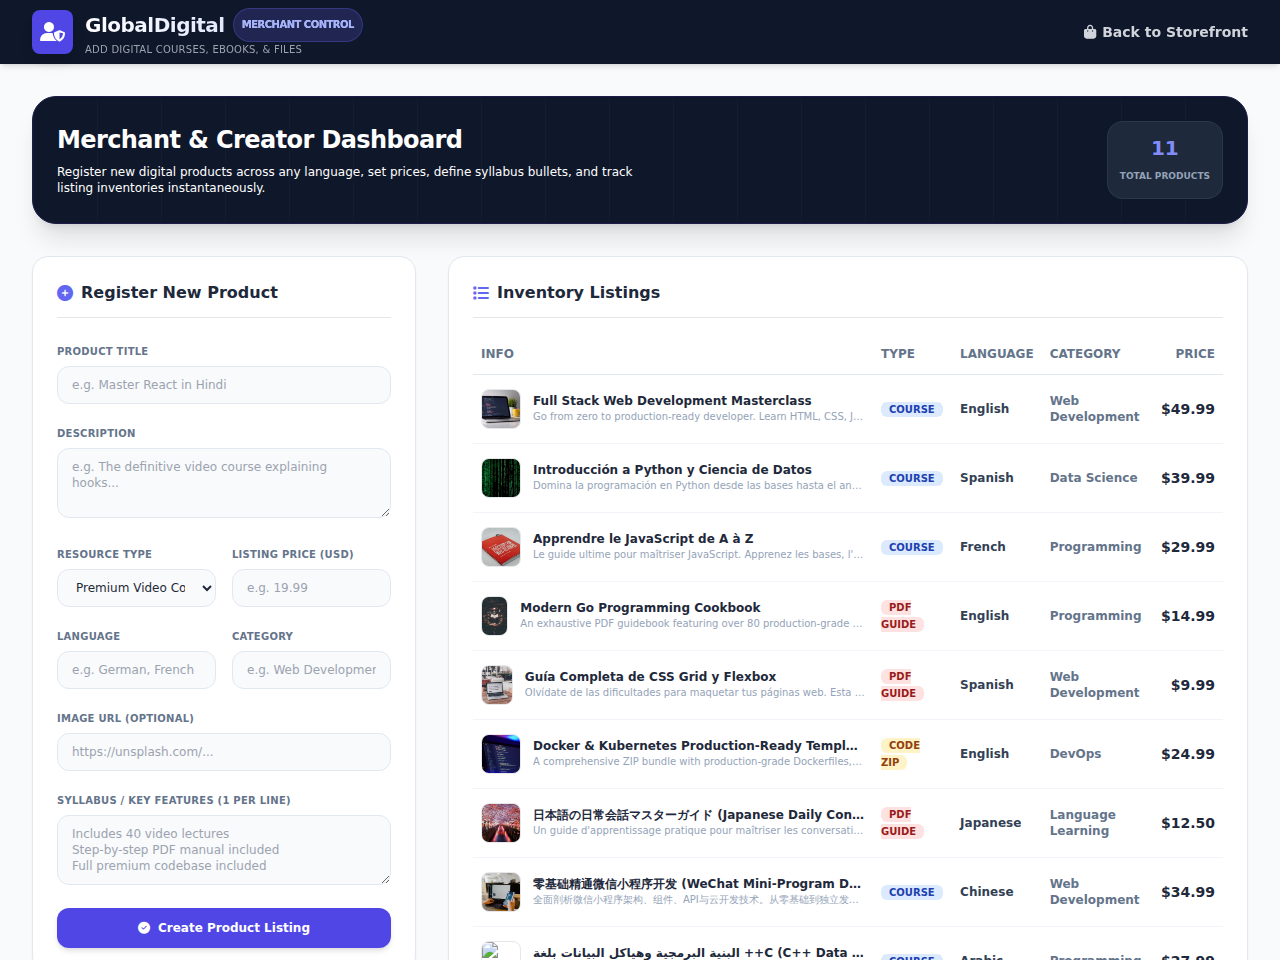
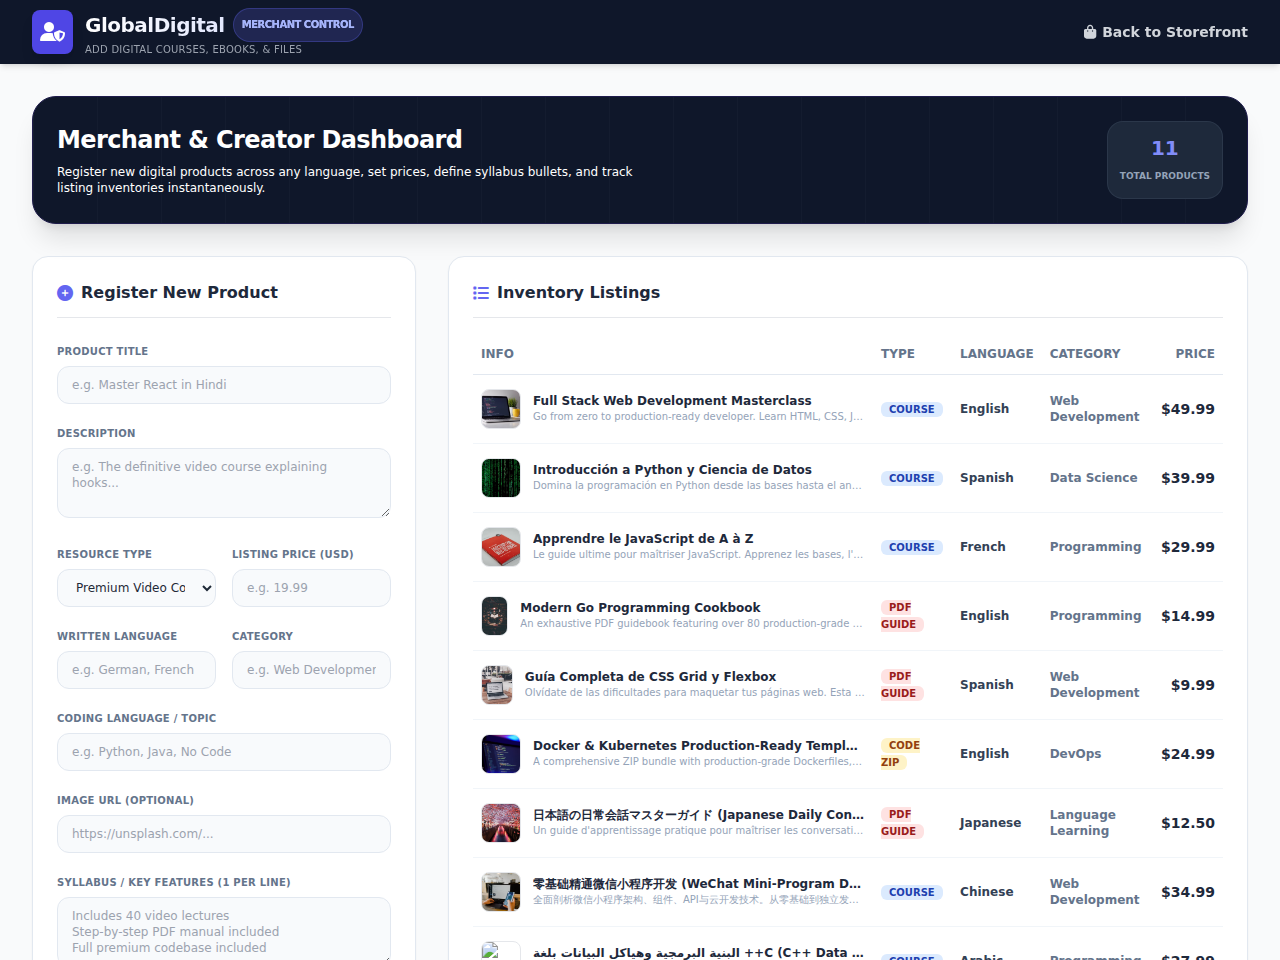
feat: implement multi-lingual coding-language digital e-commerce storefront with whatsapp and stripe integration on new repo

Changed region(s): [[0.0312, 0.7188, 0.3125, 1.0], [0.0312, 0.6562, 0.125, 0.6875]]

diff --git a/public/admin.html b/public/admin.html
@@ -97,7 +97,7 @@
 
             <div class="grid grid-cols-2 gap-4">
               <div class="space-y-1">
-                <label class="text-[10px] font-bold text-slate-500 uppercase tracking-wide">Language</label>
+                <label class="text-[10px] font-bold text-slate-500 uppercase tracking-wide">Written Language</label>
                 <input type="text" id="prod-lang" required placeholder="e.g. German, French" class="w-full bg-slate-55 border border-gray-250 rounded-xl px-3.5 py-2.5 text-xs focus:outline-none focus:ring-2 focus:ring-indigo-500 transition">
               </div>
 
@@ -105,6 +105,11 @@
                 <label class="text-[10px] font-bold text-slate-500 uppercase tracking-wide">Category</label>
                 <input type="text" id="prod-category" required placeholder="e.g. Web Development" class="w-full bg-slate-55 border border-gray-250 rounded-xl px-3.5 py-2.5 text-xs focus:outline-none focus:ring-2 focus:ring-indigo-500 transition">
               </div>
+            </div>
+
+            <div class="space-y-1">
+              <label class="text-[10px] font-bold text-slate-500 uppercase tracking-wide">Coding Language / Topic</label>
+              <input type="text" id="prod-proglang" placeholder="e.g. Python, Java, No Code" class="w-full bg-slate-55 border border-gray-250 rounded-xl px-3.5 py-2.5 text-xs focus:outline-none focus:ring-2 focus:ring-indigo-500 transition">
             </div>
 
             <div class="space-y-1">

diff --git a/server.js b/server.js
@@ -110,7 +110,7 @@ app.get('/api/products', (req, res) => {
  * Vendor endpoint to add a new digital product (Course, PDF, ZIP file).
  */
 app.post('/api/products', (req, res) => {
-  const { title, description, type, language, category, price, image, features } = req.body;
+  const { title, description, type, language, programmingLanguage, category, price, image, features } = req.body;
 
   // Simple validation
   if (!title || !description || !type || !language || !category || price === undefined) {
@@ -144,6 +144,7 @@ app.post('/api/products', (req, res) => {
     description,
     type,
     language,
+    programmingLanguage: programmingLanguage || 'No Code',
     category,
     price: parseFloat(price),
     rating: 5.0,

diff --git a/public/admin.js b/public/admin.js
@@ -104,6 +104,7 @@ async function handleFormSubmit(event) {
   const price = parseFloat(document.getElementById('prod-price').value);
   const language = document.getElementById('prod-lang').value.trim();
   const category = document.getElementById('prod-category').value.trim();
+  const programmingLanguage = document.getElementById('prod-proglang').value.trim() || 'No Code';
   const image = document.getElementById('prod-image').value.trim() || null;
   const featuresText = document.getElementById('prod-features').value.trim();
 
@@ -118,6 +119,7 @@ async function handleFormSubmit(event) {
     type,
     price,
     language,
+    programmingLanguage,
     category,
     image,
     features
